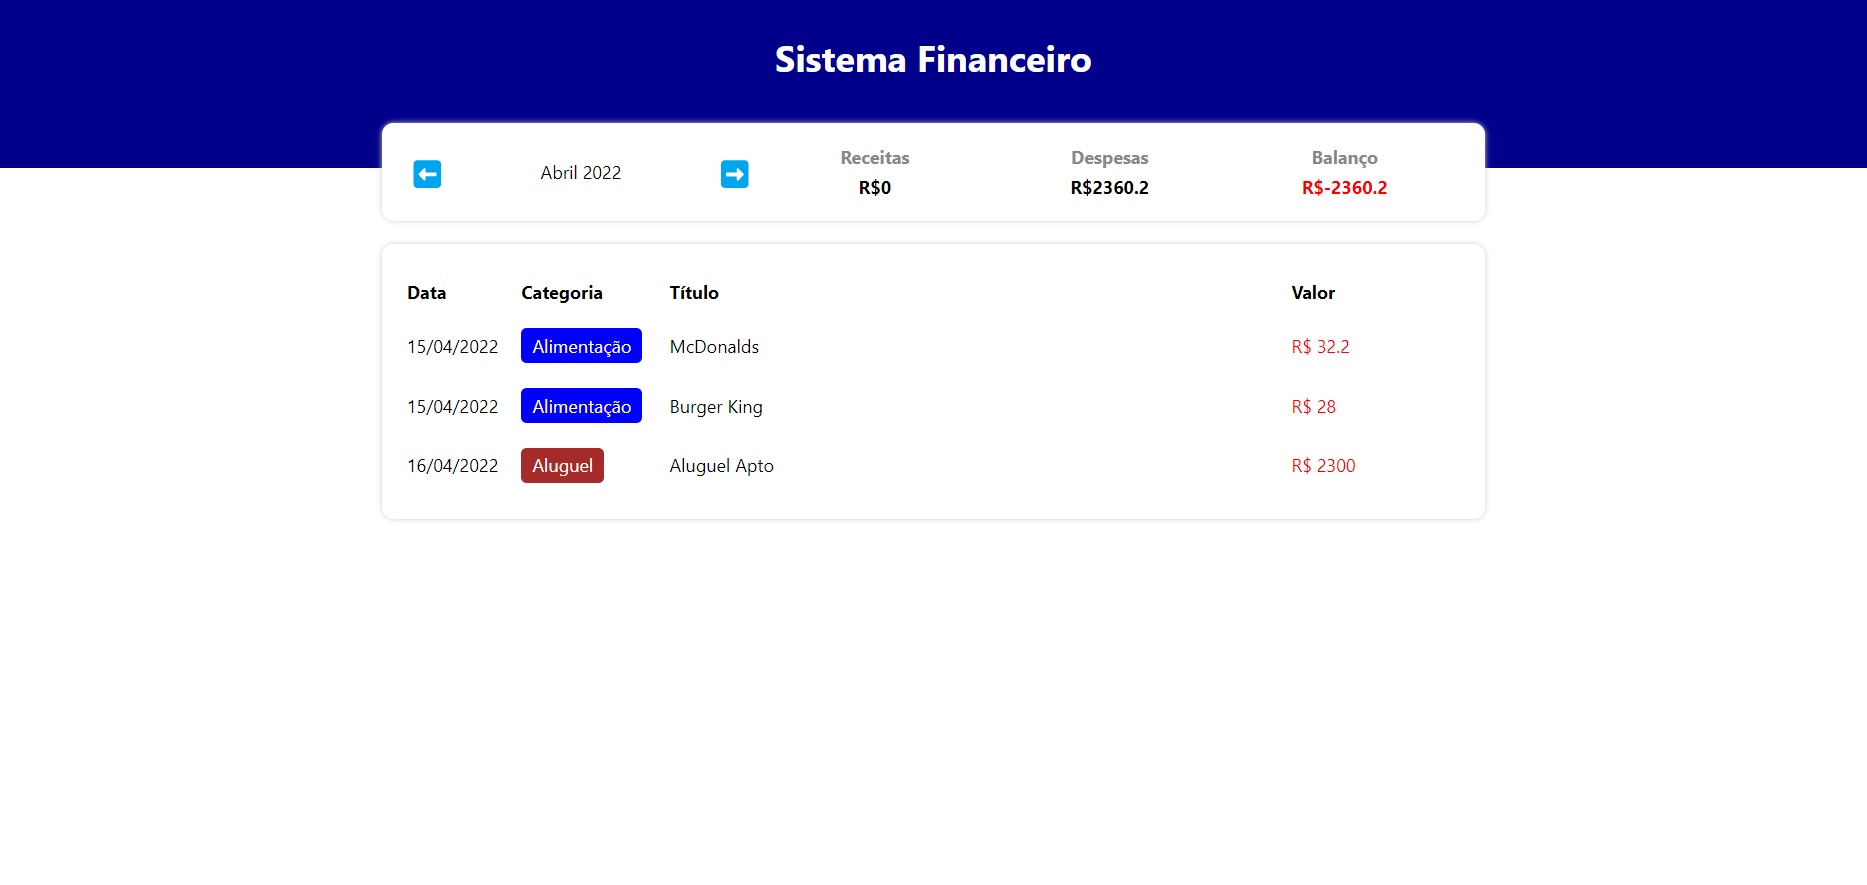
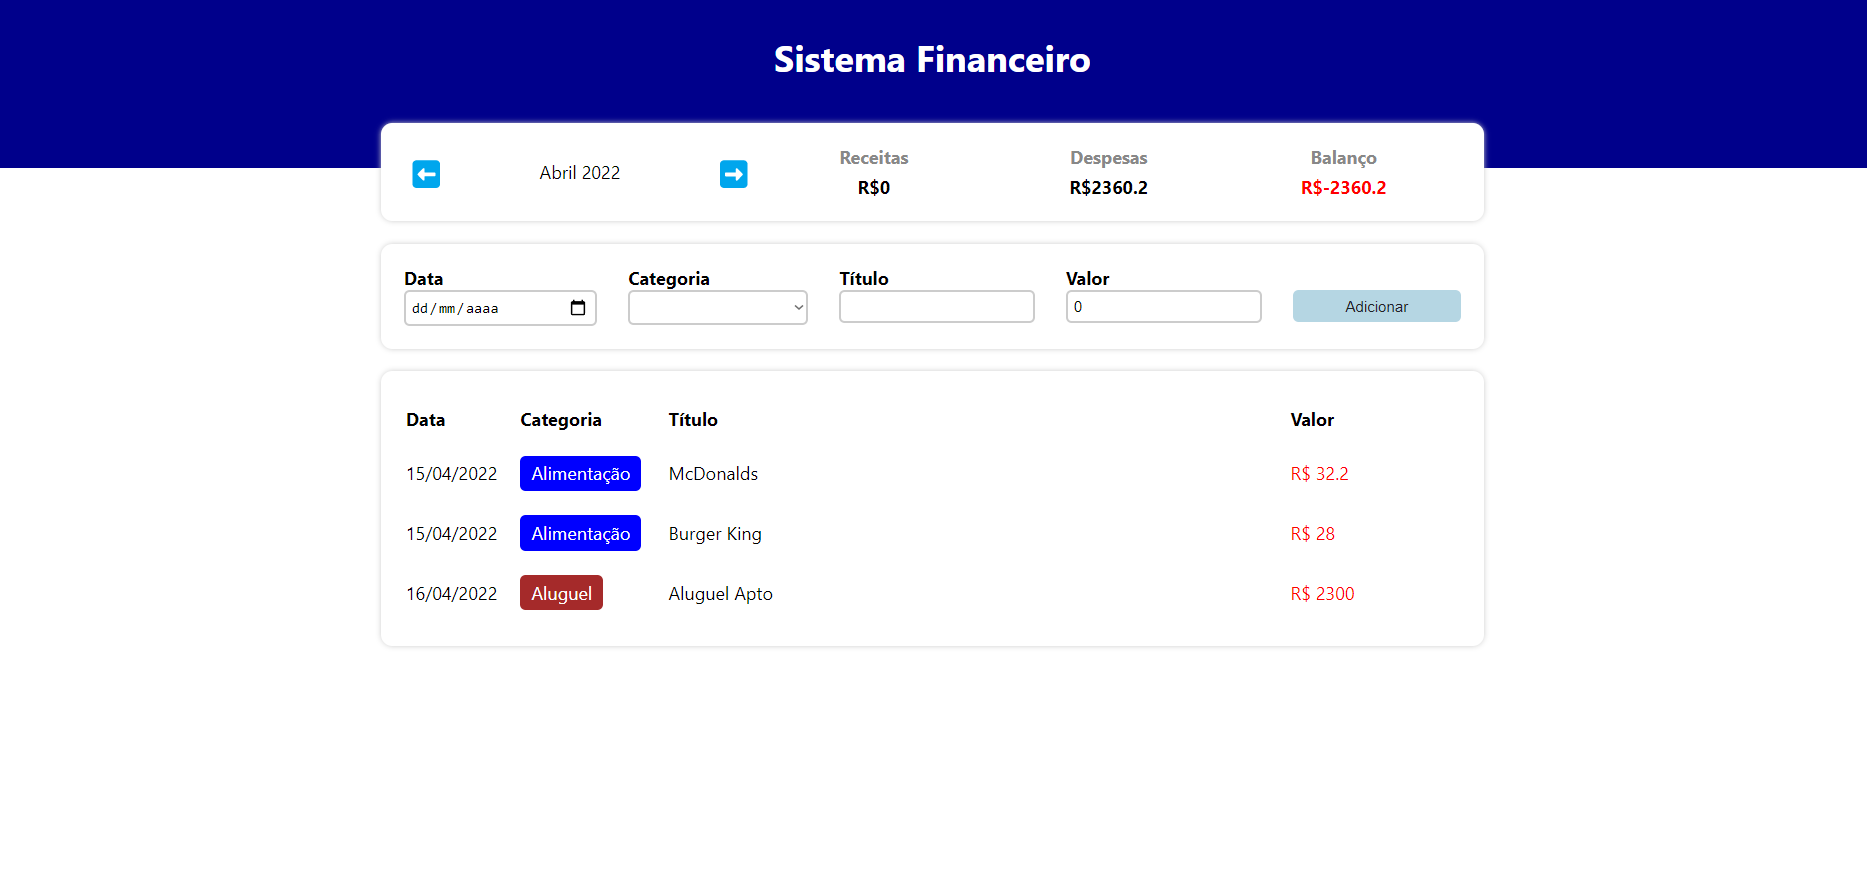
InputArea concluido

diff --git a/src/components/InputArea/index.tsx b/src/components/InputArea/index.tsx
@@ -1,0 +1,84 @@
+import { ButtonAdd, Container, Form, Input, InputLabel, InputSelect } from "./styles";
+import { Item } from '../../types/Item';
+import { categories } from '../../data/categories';
+import { useState } from "react";
+import { newDateFormat } from '../../helpers/dateFilter';
+
+type InputAreaProps = {
+    onAdd: (item: Item) => void;
+}
+
+export const InputArea = ({ onAdd }: InputAreaProps) => {
+
+    const [dateField, setDateField] = useState('');
+    const [categoryField, setCategoryField] = useState('');
+    const [titleField, setTitleField] = useState('');
+    const [valueField, setValueField] = useState(0);
+
+    let categoryKeys: string[] = Object.keys(categories);
+
+    const handleAddEvent = (e: React.SyntheticEvent<EventTarget>) => {
+        e.preventDefault();
+        let errors: string[] = [];
+
+        if (isNaN(new Date(dateField).getTime())) {
+            errors.push('Data inválida');
+        }
+        if (!categoryKeys.includes(categoryField)) {
+            errors.push('Categoria inválida');
+        }
+        if (titleField === '') {
+            errors.push('Título vazio');
+        }
+        if (valueField <= 0) {
+            errors.push('Valor inválido');
+        }
+
+        if (errors.length > 0) {
+            alert(errors.join(', \n'));
+        } else {
+            let newItem: Item = {
+                date: newDateFormat(dateField),
+                category: categoryField,
+                title: titleField,
+                value: valueField,
+            };
+            onAdd(newItem);
+            
+        }
+        clearFields();
+    }
+
+    const clearFields = () => {
+        setDateField('');
+        setCategoryField('');
+        setTitleField('');
+        setValueField(0);
+    }
+
+    return (
+        <Container>
+            <Form>
+                <InputLabel>Data
+                    <Input value={dateField} type="date" onChange={e => setDateField(e.target.value)} />
+                </InputLabel>
+                <InputLabel>Categoria
+                    <InputSelect value={categoryField} onChange={e => setCategoryField(e.target.value)}>
+                        <option hidden></option>
+                        {categoryKeys.map((value, index) => (
+
+                            <option key={index} value={value}>{categories[value].title}</option>
+                        ))}
+                    </InputSelect>
+                </InputLabel>
+                <InputLabel>Título
+                    <Input type="text" value={titleField} onChange={e => setTitleField(e.target.value)} />
+                </InputLabel>
+                <InputLabel>Valor
+                    <Input type="number" value={valueField} onChange={e => setValueField(parseFloat(e.target.value))} />
+                </InputLabel>
+                <ButtonAdd onClick={e => handleAddEvent(e)}>Adicionar</ButtonAdd>
+            </Form>
+        </Container>
+    );
+}

diff --git a/src/components/InputArea/styles.ts b/src/components/InputArea/styles.ts
@@ -1,0 +1,55 @@
+import styled from 'styled-components';
+
+export const Container = styled.div`
+    background-color: #fff;
+    box-shadow: 0px 0px 5px #ccc;
+    border-radius: 10px;
+    padding: 20px;
+    margin-top: 20px;
+`
+
+export const Form = styled.form`
+    display: flex;
+    justify-content: space-between;
+`
+
+export const Input = styled.input<{ type?: string }>`
+    padding: ${props => props.type === 'date' ? `4px` : `5px`};
+    border-radius: 5px;
+    border: 2px solid #ccc;
+    width: 10rem;
+    cursor: ${props => props.type === 'date' ? 'pointer': 'text'};
+`
+
+export const InputSelect = styled.select`
+    padding: 5px;
+    border-radius: 5px;
+    border: 2px solid #ccc;
+    width: 10rem;
+    cursor: pointer;
+`
+
+export const InputLabel = styled.label`
+    display: flex;
+    flex-direction: column;
+    font-weight: bold;
+`
+
+export const ButtonAdd = styled.button`
+    height: 29px;
+    width: 150px;
+    display: flex;
+    align-items: center;
+    justify-content: center;
+    border-radius: 5px;
+    margin-top: 1.3rem;
+    border: 0;
+    background-color: #b5d6e3;
+    color: #212127;
+    cursor: pointer;
+    transition: filter 0.5s;
+
+    &:hover {
+        filter: brightness(0.95);
+    }
+`

diff --git a/src/App.tsx b/src/App.tsx
@@ -7,8 +7,11 @@ import { items } from './data/items';
 import { getCurrentMonth, filterListByMonth } from './helpers/dateFilter';
 import { TableArea } from './components/TableArea';
 import { InfoArea } from './components/InfoArea';
+import { InputArea } from './components/InputArea';
 
 const App = () => {
+  
+
   const [list, setList] = useState(items);
   const [filteredList, setFilteredList] = useState<Item[]>([]);
   const [currentMonth, setCurrentMonth] = useState(getCurrentMonth());
@@ -39,6 +42,13 @@ const App = () => {
     setCurrentMonth(newMonth);
   }
 
+  const handleAddItem = (item: Item) => {
+    let newList = [...list];
+    newList.push(item);
+    setList(newList);
+
+  }
+
   return (
     <Container>
       <Header>
@@ -53,7 +63,7 @@ const App = () => {
           expense={expense}
         />
           
-        {/* Área de inserção */}
+        <InputArea onAdd={handleAddItem} />
 
         <TableArea list={filteredList} />
 

diff --git a/src/helpers/dateFilter.ts b/src/helpers/dateFilter.ts
@@ -39,3 +39,9 @@ export const formatCurrentMonth = (currentMonth: string): string => {
 
     return `${months[parseInt(month) -1]} ${year}`;
 }
+
+export const newDateFormat = (date: string): Date => {
+    const [year, month, day ] = date.split('-');
+
+    return new Date(parseInt(year), parseInt(month) - 1, parseInt(day));
+}
